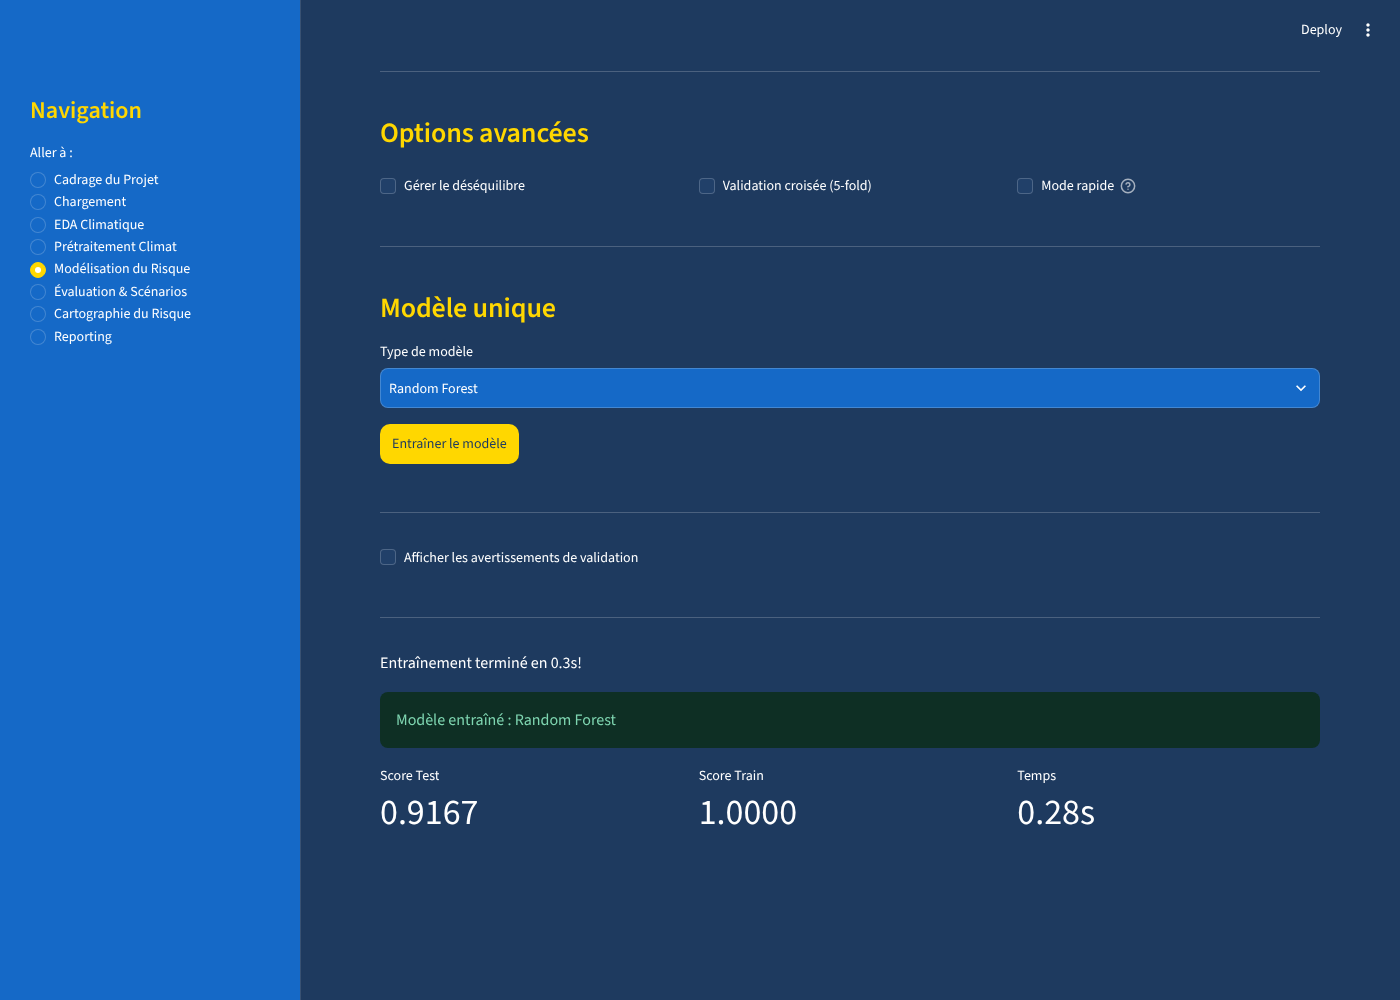
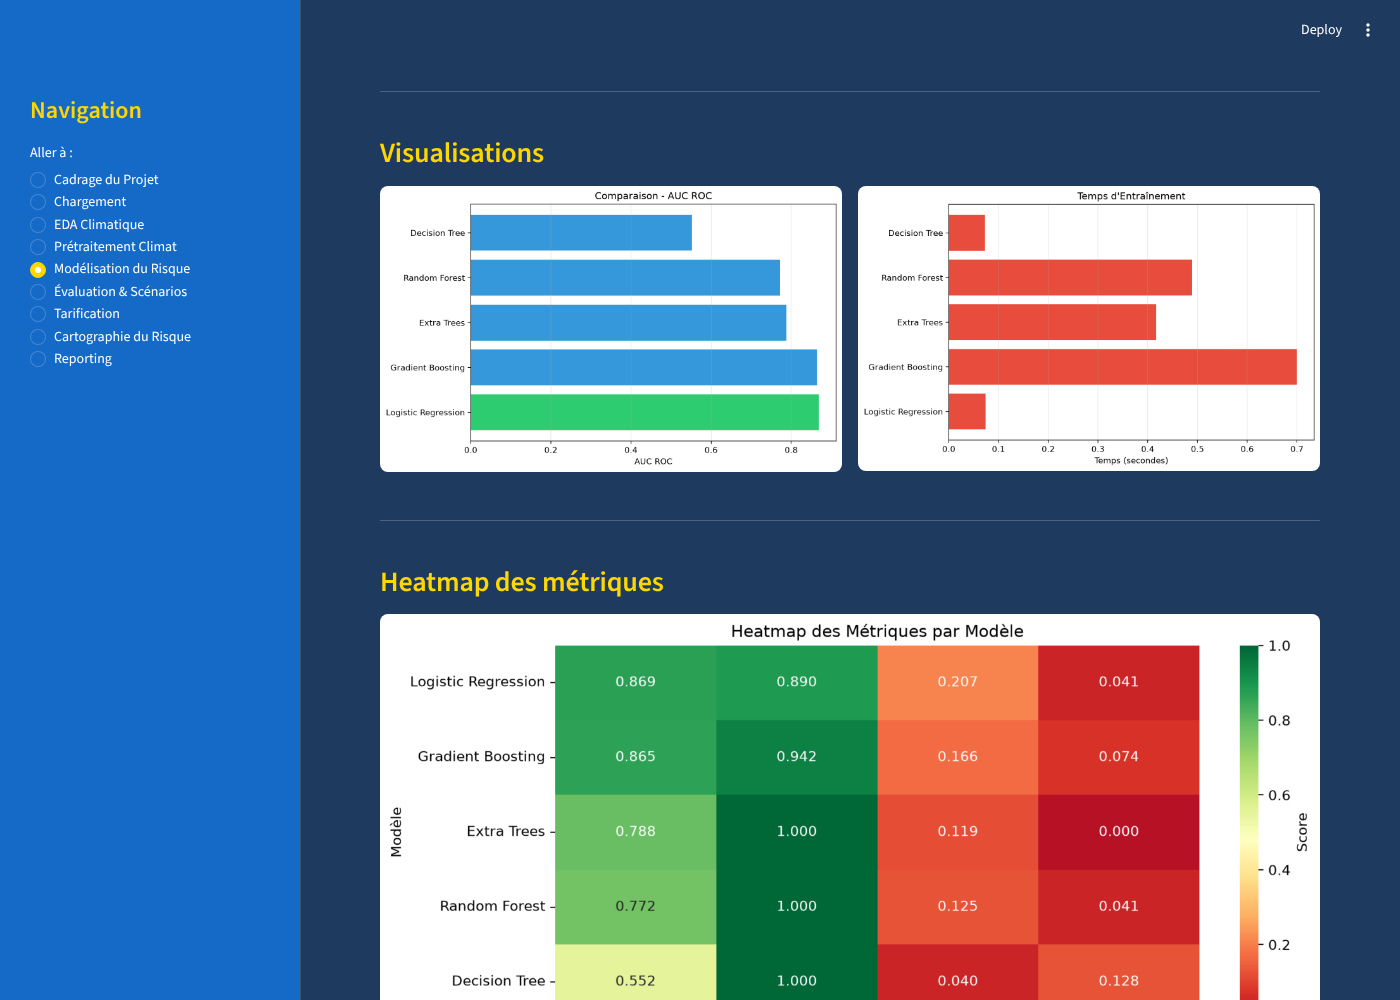
Évaluation par segment adaptée aux événements rares, captures d'écran à jour
- Analyse par segment : taux observé, taux prédit moyen, rappel et AUC ROC au lieu de la seule accuracy
- Graphique de tarification : toutes les zones sont étiquetées
- README : nouvelles captures dont la page Tarification

Claude-Session: https://claude.ai/code/session_01AbA7JWDdC31VULntPRP4XQ

diff --git a/climatool/evaluation.py b/climatool/evaluation.py
@@ -64,6 +64,41 @@ def analyze_by_segment(y_test: pd.Series, y_pred: pd.Series, segment_col: pd.Ser
 MAX_SEGMENTS = 30
 
 
+
+def classification_by_segment(segment, y_true, y_pred, y_proba=None) -> pd.DataFrame:
+    """Performance de classification par segment.
+
+    Pour un événement rare, l'accuracy d'un segment est presque toujours proche de 1 :
+    on présente donc le taux d'événements observé, le taux prédit moyen (calibration),
+    le rappel et l'AUC ROC lorsque le segment contient les deux classes.
+    """
+    from sklearn.metrics import roc_auc_score
+
+    df = pd.DataFrame({
+        "segment": np.asarray(segment),
+        "y": np.asarray(y_true),
+        "pred": np.asarray(y_pred),
+    })
+    binary = df["y"].nunique() == 2
+    if binary and y_proba is not None and np.ndim(y_proba) == 2 and np.shape(y_proba)[1] == 2:
+        df["proba"] = np.asarray(y_proba)[:, 1]
+    rows = []
+    positive = sorted(df["y"].unique())[-1]
+    for seg, g in df.groupby("segment", sort=True):
+        row = {"Segment": seg, "Observations": len(g)}
+        if binary:
+            pos = g["y"] == positive
+            row["Événements"] = int(pos.sum())
+            row["Taux observé"] = float(pos.mean())
+            if "proba" in g:
+                row["Taux prédit moyen"] = float(g["proba"].mean())
+            row["Rappel"] = float((g.loc[pos, "pred"] == positive).mean()) if pos.any() else np.nan
+            if "proba" in g:
+                row["AUC ROC"] = float(roc_auc_score(pos, g["proba"])) if 0 < pos.sum() < len(g) else np.nan
+        row["Accuracy"] = float((g["y"] == g["pred"]).mean())
+        rows.append(row)
+    return pd.DataFrame(rows)
+
 def segment_columns(X: pd.DataFrame) -> list[str]:
     """Colonnes catégorielles exploitables pour une analyse par segment.
 
@@ -363,28 +398,42 @@ def show_evaluation(info: dict) -> None:
                     segment_col = st.selectbox("Colonne de segmentation", options=cat_cols)
 
                     if segment_col:
-                        # Créer un DataFrame avec les résultats
-                        eval_df = pd.DataFrame({
-                            "segment": X_test[segment_col],
-                            "y_test": y_test,
-                            "y_pred": y_pred
-                        })
-
-                        # Calculer l'accuracy par segment
-                        segment_acc = eval_df.groupby("segment").apply(
-                            lambda g: (g["y_test"] == g["y_pred"]).mean()
-                        ).reset_index(name="accuracy")
-
-                        st.dataframe(segment_acc, width="stretch")
-
-                        # Graphique
-                        fig, ax = plt.subplots(figsize=(8, 4))
-                        ax.bar(segment_acc["segment"].astype(str), segment_acc["accuracy"])
-                        ax.set_xlabel(segment_col)
-                        ax.set_ylabel("Accuracy")
-                        ax.set_title(f"Performance par {segment_col}")
-                        plt.xticks(rotation=45, ha="right")
-                        st.pyplot(fig)
+                        seg_table = classification_by_segment(
+                            X_test[segment_col], y_test, y_pred, info.get("y_proba")
+                        )
+                        st.dataframe(
+                            seg_table,
+                            width="stretch",
+                            hide_index=True,
+                            column_config={
+                                "Taux observé": st.column_config.NumberColumn(format="percent"),
+                                "Taux prédit moyen": st.column_config.NumberColumn(format="percent"),
+                                "Rappel": st.column_config.NumberColumn(format="%.2f"),
+                                "AUC ROC": st.column_config.NumberColumn(format="%.3f"),
+                                "Accuracy": st.column_config.NumberColumn(format="%.3f"),
+                            },
+                        )
+                        metric = "AUC ROC" if "AUC ROC" in seg_table and seg_table["AUC ROC"].notna().any() else "Accuracy"
+                        st.caption(
+                            "Taux prédit moyen proche du taux observé : le modèle est bien calibré sur le segment. "
+                            "L'AUC ROC mesure la capacité à classer les jours à risque avant les autres ; elle n'est "
+                            "calculée que si le segment contient au moins un événement et un non-événement dans le test."
+                        )
+                        plot_df = seg_table.dropna(subset=[metric])
+                        if not plot_df.empty:
+                            fig, ax = plt.subplots(figsize=(8, 4))
+                            ax.bar(plot_df["Segment"].astype(str), plot_df[metric], color="#3498db")
+                            ax.set_xlabel(segment_col)
+                            ax.set_ylabel(metric)
+                            ax.set_ylim(0, 1)
+                            if metric == "AUC ROC":
+                                ax.axhline(0.5, color="grey", linestyle="--", linewidth=1, label="Hasard")
+                                ax.legend()
+                            ax.set_title(f"{metric} par {segment_col}")
+                            plt.xticks(rotation=45, ha="right")
+                            plt.tight_layout()
+                            st.pyplot(fig)
+                            plt.close(fig)
 
     else:
         st.subheader("Prédictions vs valeurs réelles")

diff --git a/clim_app.py b/clim_app.py
@@ -1037,7 +1037,7 @@ def page_pricing() -> None:
         .mark_bar(color="#FFD700")
         .encode(
             x=alt.X("Prime commerciale par unité:Q", title="Prime commerciale annuelle par unité"),
-            y=alt.Y("Segment:N", sort="-x", title=None),
+            y=alt.Y("Segment:N", sort="-x", title=None, axis=alt.Axis(labelOverlap=False, labelLimit=250)),
             tooltip=["Segment", alt.Tooltip("Prime pure par unité:Q", format=".2f"),
                      alt.Tooltip("Prime commerciale par unité:Q", format=".2f")],
         )

diff --git a/README.md b/README.md
@@ -8,9 +8,11 @@ Application en ligne : https://climateriskanalytics.streamlit.app/
 
 ## Aperçu
 
-| Chargement | Modélisation | Évaluation |
-|---|---|---|
-| ![Chargement](docs/screenshots/01_chargement.png) | ![Modélisation](docs/screenshots/02_modelisation.png) | ![Évaluation](docs/screenshots/03_evaluation.png) |
+| Comparaison des modèles | Évaluation par zone |
+|---|---|
+| ![Modélisation](docs/screenshots/02_modelisation.png) | ![Évaluation](docs/screenshots/03_evaluation.png) |
+| **Tarification** | **Chargement** |
+| ![Tarification](docs/screenshots/04_tarification.png) | ![Chargement](docs/screenshots/01_chargement.png) |
 
 ## Fonctionnalités
 
@@ -21,7 +23,7 @@ Application en ligne : https://climateriskanalytics.streamlit.app/
 | EDA climatique | Aperçu des données et série temporelle d'une variable |
 | Prétraitement | Conversion des dates, agrégation journalière ou mensuelle par identifiant (somme pour les cumuls et les coûts, maximum pour les indicateurs 0/1, moyenne sinon), cumuls et moyennes glissantes calculés par zone, contrôle des valeurs extrêmes |
 | Modélisation | Modèle unique, comparaison de modèles, affinage des hyperparamètres du meilleur modèle (tous les modèles qui en ont : forêts, boosting, arbre, KNN, régressions régularisées) ; choix des variables explicatives avec exclusion automatique des variables qui révèlent la cible (fuite de données), découpage temporel apprentissage / test, gestion du déséquilibre des classes, validation croisée, mode rapide. En classification, la métrique principale est l'AUC ROC, complétée par l'AUC PR |
-| Évaluation | Classification : matrice de confusion, métriques détaillées, courbes précision-rappel et ROC. Régression : prédictions contre valeurs réelles, résidus, métriques orientées risque. Analyse par segment |
+| Évaluation | Classification : matrice de confusion, métriques détaillées, courbes précision-rappel et ROC. Régression : prédictions contre valeurs réelles, résidus, métriques orientées risque. Analyse par segment : taux d'événements observé et prédit, rappel et AUC ROC par zone |
 | Tarification | Prime pure = fréquence modélisée x coût moyen d'un sinistre, par segment (zone par exemple) et par unité d'exposition ; recalage de la fréquence sur la sinistralité observée, coût moyen par segment avec crédibilité (Bühlmann), chargements de sécurité, de frais et de marge, ratio observé / attendu, export CSV |
 | Cartographie | Heatmap, points, marqueurs regroupés (Folium) ou gradient 3D (PyDeck), plusieurs fonds de carte, filtre temporel |
 | Reporting | Rapport HTML personnalisable (sections, titre, variable climatique), aperçu intégré et téléchargement |
